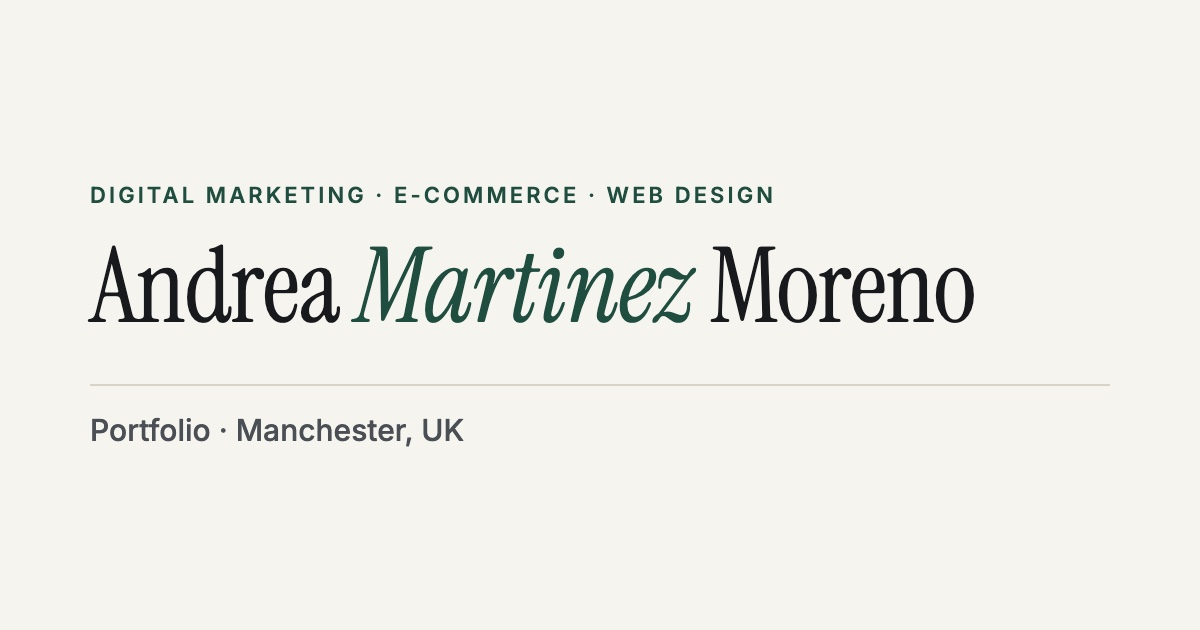
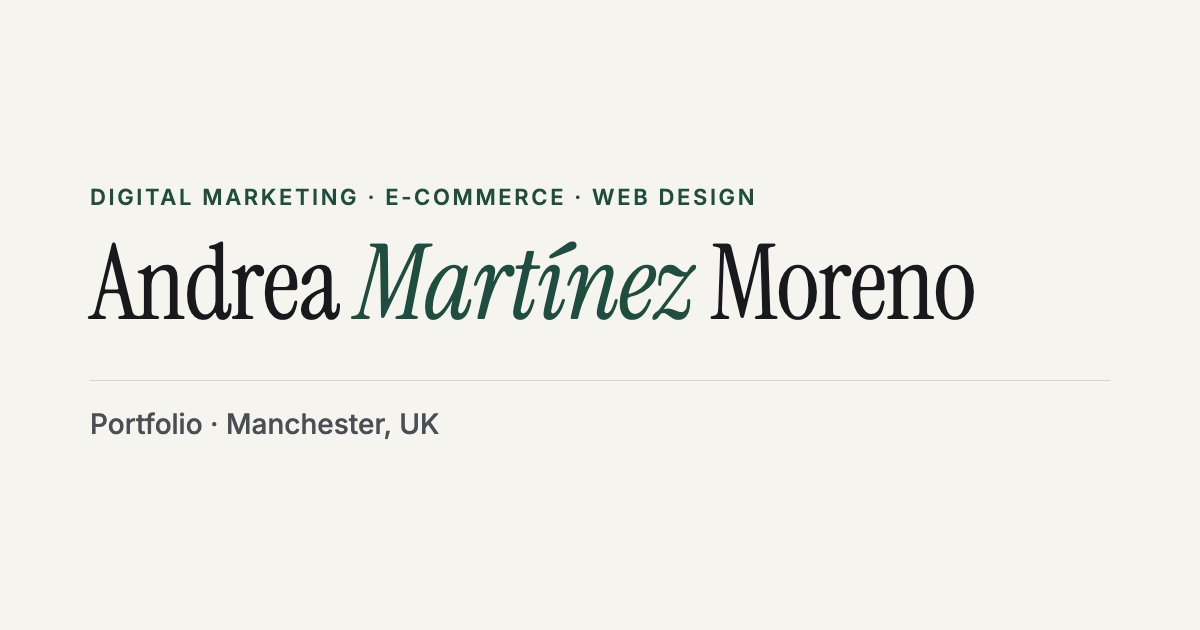
Escribe Martínez con tilde en el nombre y en la imagen para compartir

diff --git a/index.html b/index.html
@@ -3,9 +3,9 @@
 <head>
 <meta charset="utf-8">
 <meta name="viewport" content="width=device-width, initial-scale=1">
-<title>Andrea Martinez Moreno | Digital marketing, e-commerce &amp; web design</title>
-<meta name="description" content="Portfolio of Andrea Martinez Moreno. Digital marketing and e-commerce, with hands-on web design for small businesses. Based in Manchester, UK, working in English and Spanish.">
-<meta property="og:title" content="Andrea Martinez Moreno | Digital marketing, e-commerce &amp; web design">
+<title>Andrea Martínez Moreno | Digital marketing, e-commerce &amp; web design</title>
+<meta name="description" content="Portfolio of Andrea Martínez Moreno. Digital marketing and e-commerce, with hands-on web design for small businesses. Based in Manchester, UK, working in English and Spanish.">
+<meta property="og:title" content="Andrea Martínez Moreno | Digital marketing, e-commerce &amp; web design">
 <meta property="og:description" content="Digital marketing and e-commerce, with hands-on web design for small businesses.">
 <meta property="og:type" content="website">
 <meta property="og:url" content="https://andrea-mmo.github.io/portfolio/">
@@ -24,7 +24,7 @@
 
 <header class="site-header">
   <div class="container topbar">
-    <a class="logo" href="#top">Andrea Martinez Moreno</a>
+    <a class="logo" href="#top">Andrea Martínez Moreno</a>
     <nav class="nav" aria-label="Main">
       <a href="#work">Work</a>
       <a href="#services">What I do</a>
@@ -182,7 +182,7 @@
 
 <footer class="site-footer">
   <div class="container footer-inner">
-    <span>© 2026 Andrea Martinez Moreno</span>
+    <span>© 2026 Andrea Martínez Moreno</span>
     <a href="#top">Back to top ↑</a>
   </div>
 </footer>

diff --git a/work/ben-fet.html b/work/ben-fet.html
@@ -3,9 +3,9 @@
 <head>
 <meta charset="utf-8">
 <meta name="viewport" content="width=device-width, initial-scale=1">
-<title>Multiservicios Ben Fet | Andrea Martinez Moreno</title>
+<title>Multiservicios Ben Fet | Andrea Martínez Moreno</title>
 <meta name="description" content="Case study: six design directions for a cleaning company's website, presented so the owner can compare them and choose with confidence.">
-<meta property="og:title" content="Multiservicios Ben Fet | Andrea Martinez Moreno">
+<meta property="og:title" content="Multiservicios Ben Fet | Andrea Martínez Moreno">
 <meta property="og:description" content="Case study: six design directions for a cleaning company's website, presented so the owner can compare them and choose with confidence.">
 <meta property="og:type" content="article">
 <meta property="og:url" content="https://andrea-mmo.github.io/portfolio/work/ben-fet.html">
@@ -24,7 +24,7 @@
 
 <header class="site-header">
   <div class="container topbar">
-    <a class="logo" href="../index.html">Andrea Martinez Moreno</a>
+    <a class="logo" href="../index.html">Andrea Martínez Moreno</a>
     <nav class="nav" aria-label="Main">
       <a href="../index.html#work" aria-current="true">Work</a>
       <a href="../index.html#services">What I do</a>
@@ -170,7 +170,7 @@
 
 <footer class="site-footer">
   <div class="container footer-inner">
-    <span>© 2026 Andrea Martinez Moreno</span>
+    <span>© 2026 Andrea Martínez Moreno</span>
     <a href="#top">Back to top ↑</a>
   </div>
 </footer>

diff --git a/work/peluqueria-moreno.html b/work/peluqueria-moreno.html
@@ -3,9 +3,9 @@
 <head>
 <meta charset="utf-8">
 <meta name="viewport" content="width=device-width, initial-scale=1">
-<title>Peluquería Moreno | Andrea Martinez Moreno</title>
+<title>Peluquería Moreno | Andrea Martínez Moreno</title>
 <meta name="description" content="Case study: a website and an interactive hair quiz that turn local searches into bookings for a hair salon in Valencia, Spain.">
-<meta property="og:title" content="Peluquería Moreno | Andrea Martinez Moreno">
+<meta property="og:title" content="Peluquería Moreno | Andrea Martínez Moreno">
 <meta property="og:description" content="Case study: a website and an interactive hair quiz that turn local searches into bookings for a hair salon in Valencia, Spain.">
 <meta property="og:type" content="article">
 <meta property="og:url" content="https://andrea-mmo.github.io/portfolio/work/peluqueria-moreno.html">
@@ -24,7 +24,7 @@
 
 <header class="site-header">
   <div class="container topbar">
-    <a class="logo" href="../index.html">Andrea Martinez Moreno</a>
+    <a class="logo" href="../index.html">Andrea Martínez Moreno</a>
     <nav class="nav" aria-label="Main">
       <a href="../index.html#work" aria-current="true">Work</a>
       <a href="../index.html#services">What I do</a>
@@ -228,7 +228,7 @@
 
 <footer class="site-footer">
   <div class="container footer-inner">
-    <span>© 2026 Andrea Martinez Moreno</span>
+    <span>© 2026 Andrea Martínez Moreno</span>
     <a href="#top">Back to top ↑</a>
   </div>
 </footer>

diff --git a/work/embrava.html b/work/embrava.html
@@ -3,9 +3,9 @@
 <head>
 <meta charset="utf-8">
 <meta name="viewport" content="width=device-width, initial-scale=1">
-<title>Embrava | Andrea Martinez Moreno</title>
+<title>Embrava | Andrea Martínez Moreno</title>
 <meta name="description" content="Case study: a concept online store for a training gear brand, built around choosing colours and kits that raise the average order.">
-<meta property="og:title" content="Embrava | Andrea Martinez Moreno">
+<meta property="og:title" content="Embrava | Andrea Martínez Moreno">
 <meta property="og:description" content="Case study: a concept online store for a training gear brand, built around choosing colours and kits that raise the average order.">
 <meta property="og:type" content="article">
 <meta property="og:url" content="https://andrea-mmo.github.io/portfolio/work/embrava.html">
@@ -24,7 +24,7 @@
 
 <header class="site-header">
   <div class="container topbar">
-    <a class="logo" href="../index.html">Andrea Martinez Moreno</a>
+    <a class="logo" href="../index.html">Andrea Martínez Moreno</a>
     <nav class="nav" aria-label="Main">
       <a href="../index.html#work" aria-current="true">Work</a>
       <a href="../index.html#services">What I do</a>
@@ -226,7 +226,7 @@
 
 <footer class="site-footer">
   <div class="container footer-inner">
-    <span>© 2026 Andrea Martinez Moreno</span>
+    <span>© 2026 Andrea Martínez Moreno</span>
     <a href="#top">Back to top ↑</a>
   </div>
 </footer>
